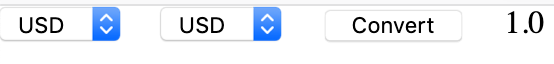
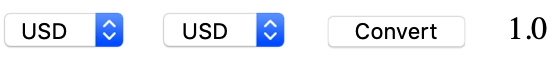
Adds screenshot to README

diff --git a/README.md b/README.md
@@ -6,7 +6,15 @@ Toy project to learn [Elm](https://elm-lang.org/) and the [Elm architecture](htt
 
 Frontend for converting currencies from the [fafx](https://github.com/FrankKair/fafx) package (European Central Bank), with a simple [Sinatra](http://sinatrarb.com/) server.
 
+### Running the project
+
+On the root directory, run:
+
 ```
-ruby server.rb
+ruby src/server.rb
 elm reactor
 ```
+
+### Screenshot
+
+<img src=https://github.com/FrankKair/elm-forex/blob/master/assets/screenshot.png width=70% height=70%/>
